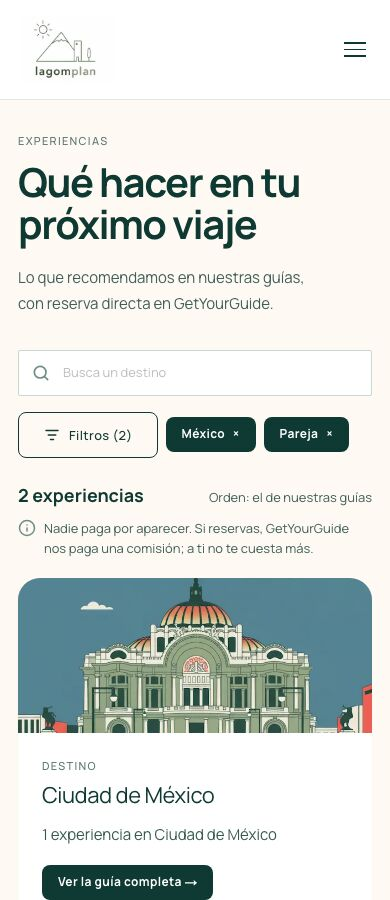
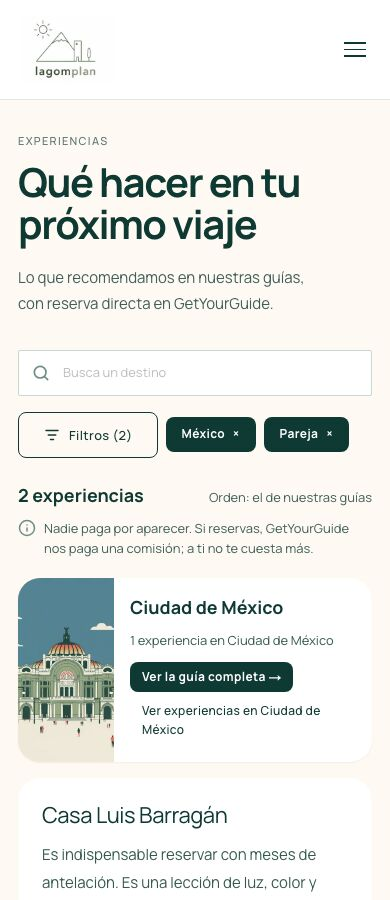
design: compact horizontal destination header (small illustration at the side, same on mobile)

Changed region(s): [[0.0308, 0.6222, 0.9538, 1.0]]

diff --git a/docs/design/catalog-migration/index.html b/docs/design/catalog-migration/index.html
@@ -1,1 +1,1 @@
-<!doctype html><meta charset="utf-8"><meta name="viewport" content="width=device-width,initial-scale=1"><title>Catalog migration evidence</title><style>body{font:14px/1.5 system-ui;margin:24px;max-width:1500px}.row{display:flex;gap:16px;align-items:flex-start;margin:0 0 32px}.row figure{margin:0;flex:1;min-width:0}.row img{width:100%;border:1px solid #ddd}figcaption{font-size:12px;color:#555;margin:4px 0}.m img{max-width:390px}</style><h1>/experiencias and /hoteles, grouped by destination</h1><p>before = main, after = this branch (first 4200 px; state shots 2600 px). Page heights (px) main to branch: Experiencias 13,743 to 25,153 (1440) and 34,675 to 49,644 (390); Hoteles 27,936 to 37,455 and 72,930 to 92,798.</p><h2>Screens at 1440</h2><div class="row "><figure><figcaption>before /es/experiencias @ 1440</figcaption><img src="before/experiencias-1440.jpg"></figure><figure><figcaption>after /es/experiencias @ 1440</figcaption><img src="after/experiencias-1440.jpg"></figure></div><div class="row "><figure><figcaption>before /es/hoteles @ 1440</figcaption><img src="before/hoteles-1440.jpg"></figure><figure><figcaption>after /es/hoteles @ 1440</figcaption><img src="after/hoteles-1440.jpg"></figure></div><div class="row "><figure><figcaption>before /es/experiencias?destino=oaxaca (one destination) @ 1440</figcaption><img src="before/experiencias-oaxaca-1440.jpg"></figure><figure><figcaption>after /es/experiencias?destino=oaxaca (one destination) @ 1440</figcaption><img src="after/experiencias-oaxaca-1440.jpg"></figure></div><div class="row "><figure><figcaption>before /es/hoteles?destino=cancun (one destination) @ 1440</figcaption><img src="before/hoteles-cancun-1440.jpg"></figure><figure><figcaption>after /es/hoteles?destino=cancun (one destination) @ 1440</figcaption><img src="after/hoteles-cancun-1440.jpg"></figure></div><div class="row "><figure><figcaption>before /es/experiencias?region=mexico&para=pareja (filtered) @ 1440</figcaption><img src="before/experiencias-filtrado-1440.jpg"></figure><figure><figcaption>after /es/experiencias?region=mexico&para=pareja (filtered) @ 1440</figcaption><img src="after/experiencias-filtrado-1440.jpg"></figure></div><div class="row "><figure><figcaption>before /es/hoteles?precio=intermedio&viajero=parejas (filtered) @ 1440</figcaption><img src="before/hoteles-filtrado-1440.jpg"></figure><figure><figcaption>after /es/hoteles?precio=intermedio&viajero=parejas (filtered) @ 1440</figcaption><img src="after/hoteles-filtrado-1440.jpg"></figure></div><h2>Screens at 390</h2><div class="row m"><figure><figcaption>before /es/experiencias @ 390</figcaption><img src="before/experiencias-390.jpg"></figure><figure><figcaption>after /es/experiencias @ 390</figcaption><img src="after/experiencias-390.jpg"></figure></div><div class="row m"><figure><figcaption>before /es/hoteles @ 390</figcaption><img src="before/hoteles-390.jpg"></figure><figure><figcaption>after /es/hoteles @ 390</figcaption><img src="after/hoteles-390.jpg"></figure></div><div class="row m"><figure><figcaption>before /es/experiencias?destino=oaxaca (one destination) @ 390</figcaption><img src="before/experiencias-oaxaca-390.jpg"></figure><figure><figcaption>after /es/experiencias?destino=oaxaca (one destination) @ 390</figcaption><img src="after/experiencias-oaxaca-390.jpg"></figure></div><div class="row m"><figure><figcaption>before /es/hoteles?destino=cancun (one destination) @ 390</figcaption><img src="before/hoteles-cancun-390.jpg"></figure><figure><figcaption>after /es/hoteles?destino=cancun (one destination) @ 390</figcaption><img src="after/hoteles-cancun-390.jpg"></figure></div><div class="row m"><figure><figcaption>before /es/experiencias?region=mexico&para=pareja (filtered) @ 390</figcaption><img src="before/experiencias-filtrado-390.jpg"></figure><figure><figcaption>after /es/experiencias?region=mexico&para=pareja (filtered) @ 390</figcaption><img src="after/experiencias-filtrado-390.jpg"></figure></div><div class="row m"><figure><figcaption>before /es/hoteles?precio=intermedio&viajero=parejas (filtered) @ 390</figcaption><img src="before/hoteles-filtrado-390.jpg"></figure><figure><figcaption>after /es/hoteles?precio=intermedio&viajero=parejas (filtered) @ 390</figcaption><img src="after/hoteles-filtrado-390.jpg"></figure></div><h2>Mobile filter sheet (390)</h2><div class="row m"><figure><img src="after/experiencias-sheet-390.jpg"></figure><figure><img src="after/hoteles-sheet-390.jpg"></figure></div>
+<!doctype html><meta charset="utf-8"><meta name="viewport" content="width=device-width,initial-scale=1"><title>Catalog migration evidence</title><style>body{font:14px/1.5 system-ui;margin:24px;max-width:1500px}.row{display:flex;gap:16px;align-items:flex-start;margin:0 0 32px}.row figure{margin:0;flex:1;min-width:0}.row img{width:100%;border:1px solid #ddd}figcaption{font-size:12px;color:#555;margin:4px 0}.m img{max-width:390px}</style><h1>/experiencias and /hoteles, grouped by destination</h1><p>before = main, after = this branch (first 4200 px; state shots 2600 px). Page heights (px) main to branch: Experiencias 13,743 to 23,411 (1440) and 34,675 to 40,243 (390); Hoteles 27,936 to 35,049 and 72,930 to 79,684.</p><h2>Screens at 1440</h2><div class="row "><figure><figcaption>before /es/experiencias @ 1440</figcaption><img src="before/experiencias-1440.jpg"></figure><figure><figcaption>after /es/experiencias @ 1440</figcaption><img src="after/experiencias-1440.jpg"></figure></div><div class="row "><figure><figcaption>before /es/hoteles @ 1440</figcaption><img src="before/hoteles-1440.jpg"></figure><figure><figcaption>after /es/hoteles @ 1440</figcaption><img src="after/hoteles-1440.jpg"></figure></div><div class="row "><figure><figcaption>before /es/experiencias?destino=oaxaca (one destination) @ 1440</figcaption><img src="before/experiencias-oaxaca-1440.jpg"></figure><figure><figcaption>after /es/experiencias?destino=oaxaca (one destination) @ 1440</figcaption><img src="after/experiencias-oaxaca-1440.jpg"></figure></div><div class="row "><figure><figcaption>before /es/hoteles?destino=cancun (one destination) @ 1440</figcaption><img src="before/hoteles-cancun-1440.jpg"></figure><figure><figcaption>after /es/hoteles?destino=cancun (one destination) @ 1440</figcaption><img src="after/hoteles-cancun-1440.jpg"></figure></div><div class="row "><figure><figcaption>before /es/experiencias?region=mexico&para=pareja (filtered) @ 1440</figcaption><img src="before/experiencias-filtrado-1440.jpg"></figure><figure><figcaption>after /es/experiencias?region=mexico&para=pareja (filtered) @ 1440</figcaption><img src="after/experiencias-filtrado-1440.jpg"></figure></div><div class="row "><figure><figcaption>before /es/hoteles?precio=intermedio&viajero=parejas (filtered) @ 1440</figcaption><img src="before/hoteles-filtrado-1440.jpg"></figure><figure><figcaption>after /es/hoteles?precio=intermedio&viajero=parejas (filtered) @ 1440</figcaption><img src="after/hoteles-filtrado-1440.jpg"></figure></div><h2>Screens at 390</h2><div class="row m"><figure><figcaption>before /es/experiencias @ 390</figcaption><img src="before/experiencias-390.jpg"></figure><figure><figcaption>after /es/experiencias @ 390</figcaption><img src="after/experiencias-390.jpg"></figure></div><div class="row m"><figure><figcaption>before /es/hoteles @ 390</figcaption><img src="before/hoteles-390.jpg"></figure><figure><figcaption>after /es/hoteles @ 390</figcaption><img src="after/hoteles-390.jpg"></figure></div><div class="row m"><figure><figcaption>before /es/experiencias?destino=oaxaca (one destination) @ 390</figcaption><img src="before/experiencias-oaxaca-390.jpg"></figure><figure><figcaption>after /es/experiencias?destino=oaxaca (one destination) @ 390</figcaption><img src="after/experiencias-oaxaca-390.jpg"></figure></div><div class="row m"><figure><figcaption>before /es/hoteles?destino=cancun (one destination) @ 390</figcaption><img src="before/hoteles-cancun-390.jpg"></figure><figure><figcaption>after /es/hoteles?destino=cancun (one destination) @ 390</figcaption><img src="after/hoteles-cancun-390.jpg"></figure></div><div class="row m"><figure><figcaption>before /es/experiencias?region=mexico&para=pareja (filtered) @ 390</figcaption><img src="before/experiencias-filtrado-390.jpg"></figure><figure><figcaption>after /es/experiencias?region=mexico&para=pareja (filtered) @ 390</figcaption><img src="after/experiencias-filtrado-390.jpg"></figure></div><div class="row m"><figure><figcaption>before /es/hoteles?precio=intermedio&viajero=parejas (filtered) @ 390</figcaption><img src="before/hoteles-filtrado-390.jpg"></figure><figure><figcaption>after /es/hoteles?precio=intermedio&viajero=parejas (filtered) @ 390</figcaption><img src="after/hoteles-filtrado-390.jpg"></figure></div><h2>Mobile filter sheet (390)</h2><div class="row m"><figure><img src="after/experiencias-sheet-390.jpg"></figure><figure><img src="after/hoteles-sheet-390.jpg"></figure></div>

diff --git a/components/design/DestinationCard.tsx b/components/design/DestinationCard.tsx
@@ -43,7 +43,7 @@ export interface DestinationCardProps extends Omit<HTMLAttributes<HTMLElement>, 
   aside?: ReactNode
   /** Clamp the excerpt to this many lines. */
   excerptLines?: 3
-  /** Catalog header: image at the left, text at the right from md up (stacked below md). */
+  /** Catalog header: a low horizontal card, small illustration at the side, on every viewport. */
   row?: boolean
 }
 
@@ -56,10 +56,10 @@ export default function DestinationCard({
     <article
       {...rest}
       data-card="destination"
-      className={cx('flex h-full flex-col overflow-hidden rounded-destination bg-white shadow-soft transition-shadow', row && 'md:flex-row', linked ? 'group-hover:shadow-lift' : 'hover:shadow-lift group', !linked && className)}
+      className={cx('flex h-full overflow-hidden rounded-destination bg-white shadow-soft transition-shadow', row ? 'flex-row' : 'flex-col', linked ? 'group-hover:shadow-lift' : 'hover:shadow-lift group', !linked && className)}
     >
       {image && (
-        <div className={cx('relative overflow-hidden bg-sand', featured ? 'h-[250px]' : 'aspect-[4/3]', row && 'max-md:aspect-[16/7] md:w-[220px] md:flex-none')}>
+        <div className={cx('relative overflow-hidden bg-sand', featured ? 'h-[250px]' : (row ? 'w-24 flex-none md:w-36' : 'aspect-[4/3]'))}>
           <Image
             src={image.src}
             alt={image.alt}
@@ -81,23 +81,23 @@ export default function DestinationCard({
           )}
         </div>
       )}
-      <div className={cx('flex flex-1 flex-col gap-3 p-6', row && 'md:justify-center')}>
+      <div className={cx('flex flex-1 flex-col gap-3 p-6', row && 'min-w-0 justify-center !gap-2 !p-4')}>
         {!featured && (
           <div>
-            {typeof eyebrow === 'string' && eyebrow && !aside && <p className="m-0 mb-2 font-sans text-eyebrow uppercase text-sage-text">{eyebrow}</p>}
+            {typeof eyebrow === 'string' && eyebrow && !aside && <p className={cx('m-0 font-sans text-eyebrow uppercase text-sage-text', row ? 'mb-1 max-md:hidden' : 'mb-2')}>{eyebrow}</p>}
             {(aside || (eyebrow && typeof eyebrow !== 'string')) && (
               <div className="mb-2 flex items-start justify-between gap-3">
                 {typeof eyebrow === 'string' ? <p className="m-0 font-sans text-eyebrow uppercase text-sage-text">{eyebrow}</p> : (eyebrow ?? <span />)}
                 {aside}
               </div>
             )}
-            <Heading className="m-0 font-sans text-h3 text-pine transition-colors group-hover:text-ink-3 [text-wrap:balance]">{title}</Heading>
+            <Heading className={cx('m-0 font-sans text-pine transition-colors group-hover:text-ink-3 [text-wrap:balance]', row ? 'text-h4' : 'text-h3')}>{title}</Heading>
           </div>
         )}
-        {excerpt && <p className={cx('m-0 font-sans text-body leading-7 text-ink-card [text-wrap:pretty]', excerptLines === 3 && 'line-clamp-3')}>{excerpt}</p>}
+        {excerpt && <p className={cx('m-0 font-sans text-ink-card [text-wrap:pretty]', row ? 'text-small' : 'text-body leading-7', excerptLines === 3 && 'line-clamp-3')}>{excerpt}</p>}
         {tags && tags.length > 0 && <ul className="m-0 flex list-none flex-wrap gap-2 p-0">{tags.map(t => <li key={t}><Tag>{t}</Tag></li>)}</ul>}
         {footer}
-        {actions && <div className="mt-auto flex flex-wrap gap-2.5 pt-1">{actions}</div>}
+        {actions && <div className={cx('mt-auto flex flex-wrap pt-1', row ? 'gap-x-2 gap-y-1' : 'gap-2.5')}>{actions}</div>}
         {cta && (
           <span className="mt-auto inline-flex w-fit items-center gap-2 rounded-btn bg-pine px-6 py-3 font-sans text-button font-semibold text-white">
             {cta} <span aria-hidden="true">→</span>

diff --git a/components/hotels/HotelsClient.tsx b/components/hotels/HotelsClient.tsx
@@ -259,8 +259,8 @@ export default function HotelsClient({ hotels, destinations, neighborhoods, loca
                         excerpt={t('results.countIn', { count: g.items.length, name: first.destination })}
                         actions={(guide || !single) ? (
                           <>
-                            {guide && <Button size="sm" href={guide}>{tc('banner.guide')}</Button>}
-                            {!single && <Button size="sm" variant="secondary" onClick={() => set({ destino: g.key })}>{t('card.filterByDestination', { name: first.destination })}</Button>}
+                            {guide && <Button size="sm" className="!whitespace-normal !px-3 !py-1.5 text-left" href={guide}>{tc('banner.guide')}</Button>}
+                            {!single && <Button size="sm" variant="ghost" className="!whitespace-normal !px-3 !py-1.5 text-left" onClick={() => set({ destino: g.key })}>{t('card.filterByDestination', { name: first.destination })}</Button>}
                           </>
                         ) : undefined}
                       />

diff --git a/components/experiences/ExperiencesHub.tsx b/components/experiences/ExperiencesHub.tsx
@@ -287,8 +287,8 @@ export default function ExperiencesHub({ experiences, destinations, regionNames,
                         excerpt={t('results.countIn', { count: g.items.length, name: first.destinationName })}
                         actions={
                           <>
-                            <Button size="sm" href={guideHref(first.guideSlug)}>{tc('banner.guide')}</Button>
-                            {!single && <Button size="sm" variant="secondary" onClick={() => pickDestination(g.slug)}>{t('card.filterByDestination', { name: first.destinationName })}</Button>}
+                            <Button size="sm" className="!whitespace-normal !px-3 !py-1.5 text-left" href={guideHref(first.guideSlug)}>{tc('banner.guide')}</Button>
+                            {!single && <Button size="sm" variant="ghost" className="!whitespace-normal !px-3 !py-1.5 text-left" onClick={() => pickDestination(g.slug)}>{t('card.filterByDestination', { name: first.destinationName })}</Button>}
                           </>
                         }
                       />
